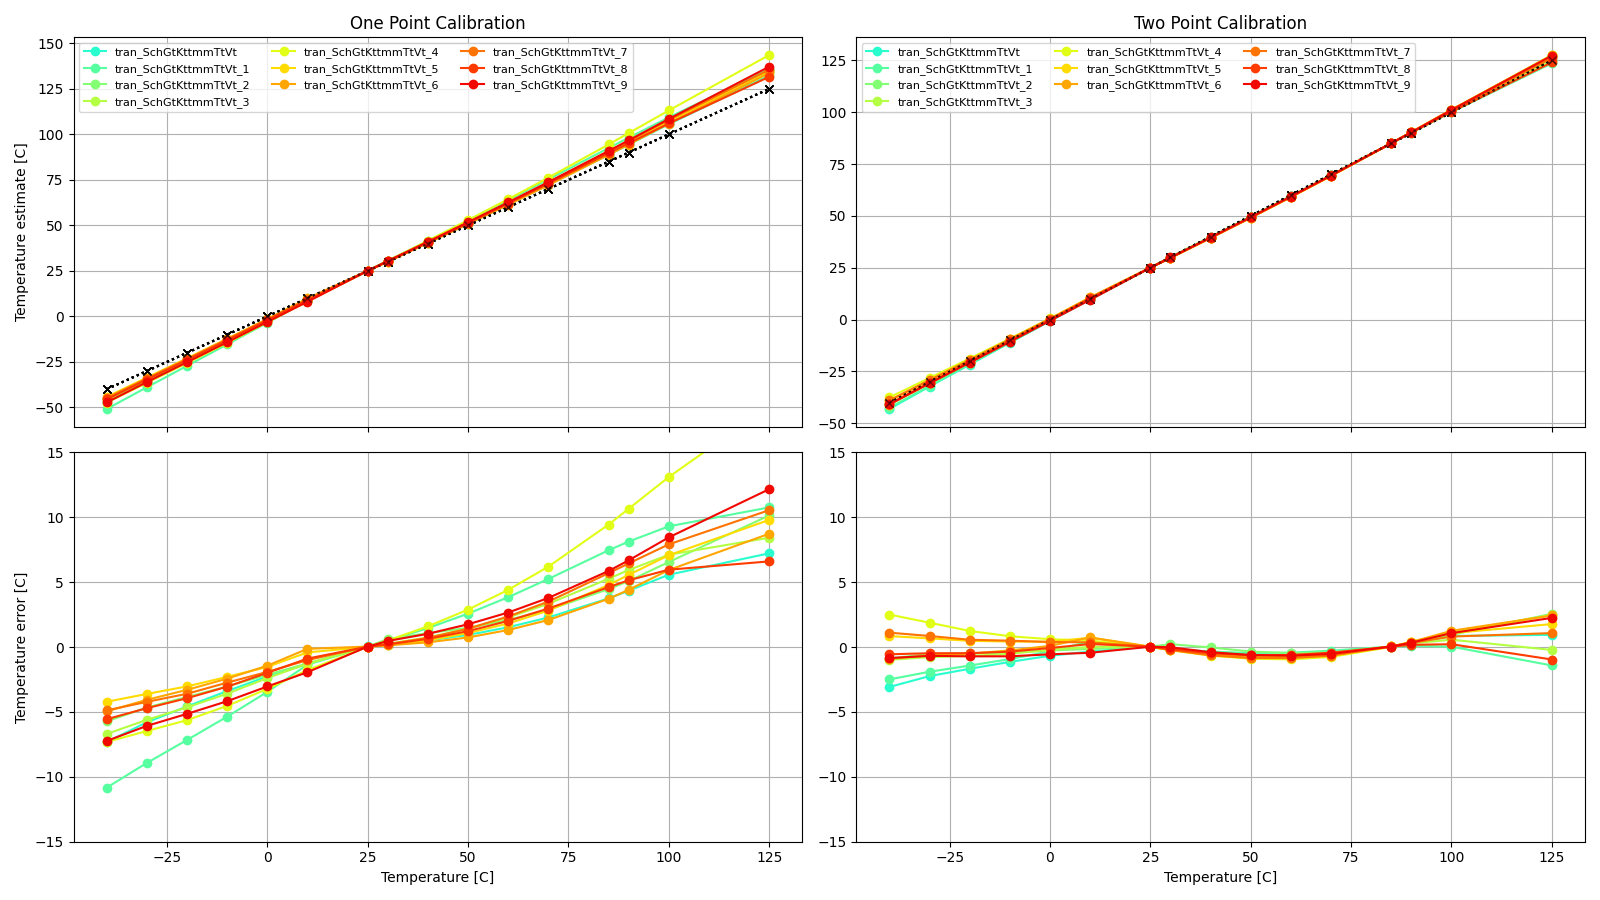
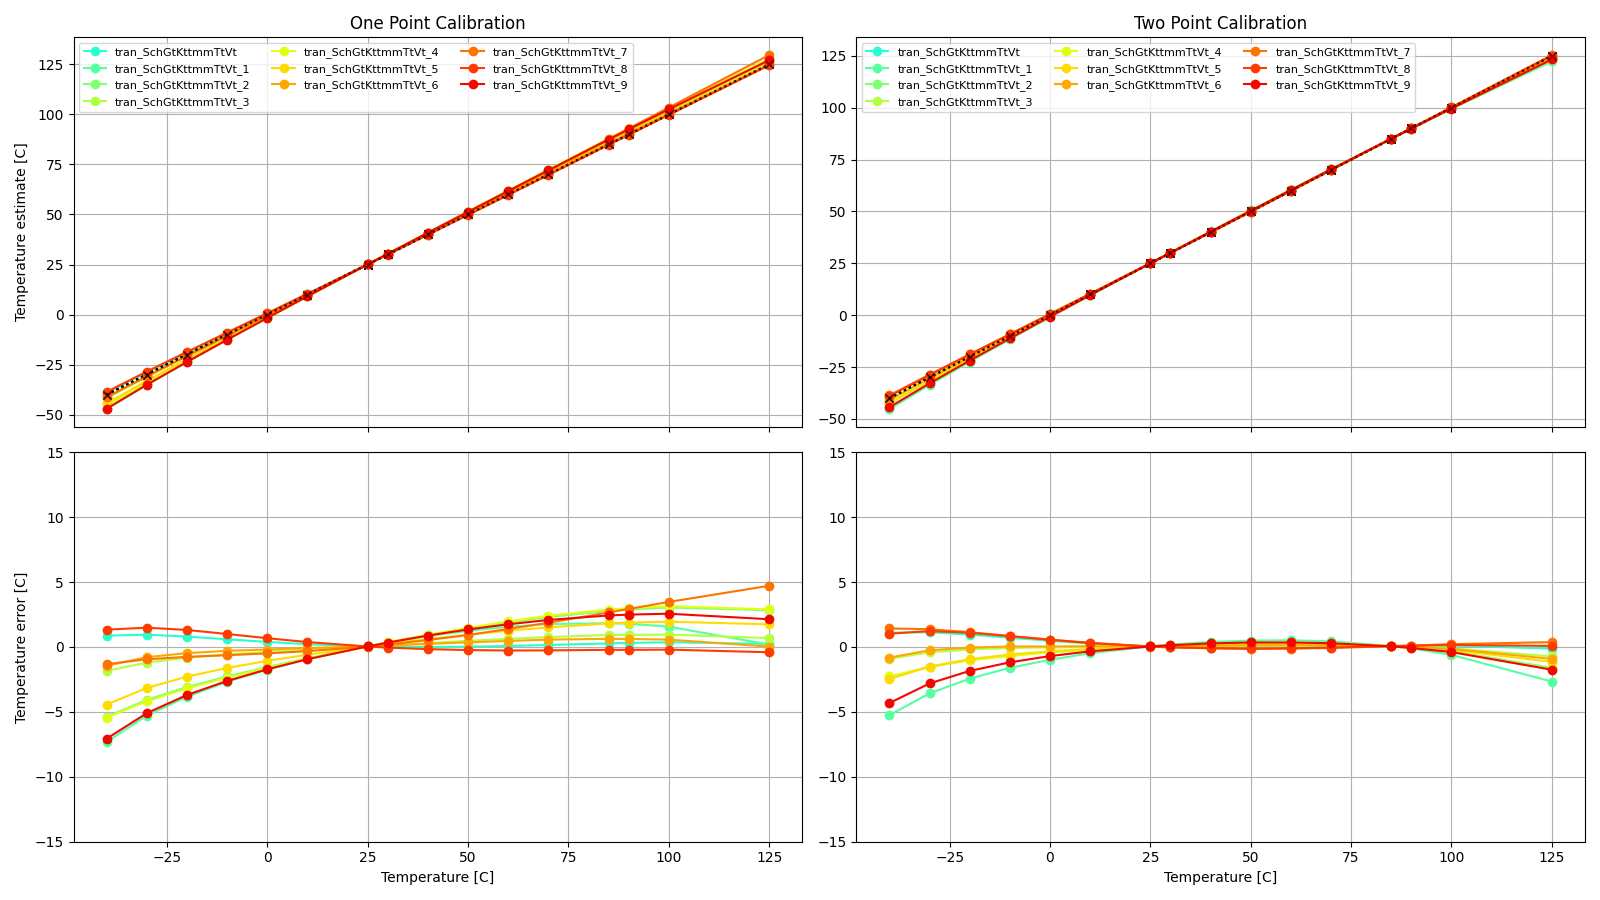
chore: carry the working tree's standing changes
The magic search path gains LELO_ATR_SKY130A, and the simulation
READMEs and waveform images are as their last regeneration left them.
These predate today's subcell work and are committed as found, so the
tree is clean for a history rewrite.

Claude-Session: https://claude.ai/code/session_011UZw6MEnHap4TKj3arkbFP

diff --git a/sim/LELOTEMP_BIAS_IBP/README.md b/sim/LELOTEMP_BIAS_IBP/README.md
@@ -9,37 +9,37 @@ Check stability
 |**Name**|**Parameter**|**Description**| |**Min**|**Typ**|**Max**| Unit|
 |:---|:---|:---|---:|:---:|:---:|:---:| ---:|
 |**Gain Margin**|**gm\_db** || **Spec**  | **-50.00** | **-10.00** | **-10.00** | **dB** |
-| | | |<a href='results/lstb_Sch_typical.html'>Sch_typ</a>| | -15.24 |  | |
-| | | |<a href='results/lstb_Sch_etc.html'>Sch_etc</a>|-31.04 | -16.50 | -12.85 | |
-| | | |<a href='results/lstb_Sch_mc.html'>Sch_3std</a>|-18.71 | -15.65 | -12.60 | |
+| | | |<a href='results/lstb_Sch_typical.html'>Sch_typ</a>| | -19.55 |  | |
+| | | |<a href='results/lstb_Sch_etc.html'>Sch_etc</a>|-26.53 | -18.94 | -16.01 | |
+| | | |<a href='results/lstb_Sch_mc.html'>Sch_3std</a>|-20.64 | -19.51 | -18.37 | |
 |**DC gain**|**lf\_gain** || **Spec**  | **50.00** | **40.00** | **80.00** | **dB** |
-| | | |<a href='results/lstb_Sch_typical.html'>Sch_typ</a>| | 69.07 |  | |
-| | | |<a href='results/lstb_Sch_etc.html'>Sch_etc</a>|65.77 | 67.28 | 69.86 | |
-| | | |<a href='results/lstb_Sch_mc.html'>Sch_3std</a>|66.68 | 68.81 | 70.95 | |
+| | | |<a href='results/lstb_Sch_typical.html'>Sch_typ</a>| | <span style='color:red'>**42.50**</span> |  | |
+| | | |<a href='results/lstb_Sch_etc.html'>Sch_etc</a>|<span style='color:red'>**39.89**</span> | <span style='color:red'>**42.76**</span> | <span style='color:red'>**44.19**</span> | |
+| | | |<a href='results/lstb_Sch_mc.html'>Sch_3std</a>|<span style='color:red'>**40.70**</span> | <span style='color:red'>**42.58**</span> | <span style='color:red'>**44.47**</span> | |
 |**Phase Margin**|**pm\_deg** || **Spec**  | **45.00** | **60.00** | **90.00** |  |
-| | | |<a href='results/lstb_Sch_typical.html'>Sch_typ</a>| | 58.63 |  | |
-| | | |<a href='results/lstb_Sch_etc.html'>Sch_etc</a>|48.41 | 62.56 | 70.99 | |
-| | | |<a href='results/lstb_Sch_mc.html'>Sch_3std</a>|50.86 | 59.70 | 68.53 | |
+| | | |<a href='results/lstb_Sch_typical.html'>Sch_typ</a>| | 70.55 |  | |
+| | | |<a href='results/lstb_Sch_etc.html'>Sch_etc</a>|59.93 | 68.21 | 80.96 | |
+| | | |<a href='results/lstb_Sch_mc.html'>Sch_3std</a>|67.47 | 70.36 | 73.25 | |
 |**Unity Gain Frequency**|**ug** || **Spec**  | **3.00** | **15.00** | **100.00** | **MHz** |
-| | | |<a href='results/lstb_Sch_typical.html'>Sch_typ</a>| | 5.76 |  | |
-| | | |<a href='results/lstb_Sch_etc.html'>Sch_etc</a>|<span style='color:red'>**2.59**</span> | 5.36 | 10.12 | |
-| | | |<a href='results/lstb_Sch_mc.html'>Sch_3std</a>|3.65 | 5.65 | 7.65 | |
+| | | |<a href='results/lstb_Sch_typical.html'>Sch_typ</a>| | 3.76 |  | |
+| | | |<a href='results/lstb_Sch_etc.html'>Sch_etc</a>|<span style='color:red'>**1.35**</span> | 4.06 | 6.78 | |
+| | | |<a href='results/lstb_Sch_mc.html'>Sch_3std</a>|3.14 | 3.80 | 4.47 | |
 |**PMOS gate**|**v(lpo)** || **Spec**  | **0.45** | **0.70** | **1.10** | **V** |
 | | | |<a href='results/lstb_Sch_typical.html'>Sch_typ</a>| | 0.76 |  | |
-| | | |<a href='results/lstb_Sch_etc.html'>Sch_etc</a>|0.52 | 0.77 | 1.05 | |
-| | | |<a href='results/lstb_Sch_mc.html'>Sch_3std</a>|0.73 | 0.76 | 0.78 | |
+| | | |<a href='results/lstb_Sch_etc.html'>Sch_etc</a>|0.52 | 0.78 | 1.05 | |
+| | | |<a href='results/lstb_Sch_mc.html'>Sch_3std</a>|0.74 | 0.76 | 0.78 | |
 |**Delta diode voltage**|**vd** || **Spec**  | **80.00** | **106.00** | **150.00** | **mV** |
-| | | |<a href='results/lstb_Sch_typical.html'>Sch_typ</a>| | 109.25 |  | |
-| | | |<a href='results/lstb_Sch_etc.html'>Sch_etc</a>|81.57 | 115.01 | 145.76 | |
-| | | |<a href='results/lstb_Sch_mc.html'>Sch_3std</a>|104.82 | 108.95 | 113.09 | |
+| | | |<a href='results/lstb_Sch_typical.html'>Sch_typ</a>| | 109.27 |  | |
+| | | |<a href='results/lstb_Sch_etc.html'>Sch_etc</a>|84.62 | 115.02 | 145.84 | |
+| | | |<a href='results/lstb_Sch_mc.html'>Sch_3std</a>|104.95 | 108.99 | 113.03 | |
 |**Output current**|**i(v1)** || **Spec**  | **0.50** | **1.00** | **2.00** | **uA** |
-| | | |<a href='results/lstb_Sch_typical.html'>Sch_typ</a>| | 1.08 |  | |
-| | | |<a href='results/lstb_Sch_etc.html'>Sch_etc</a>|0.87 | 1.26 | 1.74 | |
-| | | |<a href='results/lstb_Sch_mc.html'>Sch_3std</a>|0.75 | 1.12 | 1.50 | |
+| | | |<a href='results/lstb_Sch_typical.html'>Sch_typ</a>| | 1.06 |  | |
+| | | |<a href='results/lstb_Sch_etc.html'>Sch_etc</a>|0.71 | 1.09 | 1.74 | |
+| | | |<a href='results/lstb_Sch_mc.html'>Sch_3std</a>|0.67 | 1.06 | 1.46 | |
 |**VD Error**|**vdiff** || **Spec**  | **-6.00** | **0.00** | **6.00** | **mV** |
-| | | |<a href='results/lstb_Sch_typical.html'>Sch_typ</a>| | -0.08 |  | |
-| | | |<a href='results/lstb_Sch_etc.html'>Sch_etc</a>|<span style='color:red'>**-97.25**</span> | -0.13 | 0.06 | |
-| | | |<a href='results/lstb_Sch_mc.html'>Sch_3std</a>|<span style='color:red'>**-22.99**</span> | 0.99 | <span style='color:red'>**24.96**</span> | |
+| | | |<a href='results/lstb_Sch_typical.html'>Sch_typ</a>| | 0.60 |  | |
+| | | |<a href='results/lstb_Sch_etc.html'>Sch_etc</a>|0.25 | 0.61 | 1.02 | |
+| | | |<a href='results/lstb_Sch_mc.html'>Sch_3std</a>|<span style='color:red'>**-29.05**</span> | -1.49 | <span style='color:red'>**26.07**</span> | |
 
 #### Transient (tran)
 
@@ -51,28 +51,28 @@ Check settling time and current variation
 |:---|:---|:---|---:|:---:|:---:|:---:| ---:|
 ||**t\_settle** || **Spec**  | **0.01** | **0.05** | **2.00** | **us** |
 | | | |<a href='results/tran_Sch_typical.html'>Sch_typ</a>| | 0.37 |  | |
-| | | |<a href='results/tran_Sch_etc.html'>Sch_etc</a>|0.31 | 0.40 | <span style='color:red'>**8.84**</span> | |
-| | | |<a href='results/tran_Sch_mc.html'>Sch_3std</a>|0.35 | 0.37 | 0.40 | |
+| | | |<a href='results/tran_Sch_etc.html'>Sch_etc</a>|0.33 | 0.62 | 1.78 | |
+| | | |<a href='results/tran_Sch_mc.html'>Sch_3std</a>|0.48 | 0.62 | 0.77 | |
 ||**i0** || **Spec**  | **0.500** | **1.000** | **2.000** | **uA** |
 | | | |<a href='results/tran_Sch_typical.html'>Sch_typ</a>| | 1.160 |  | |
-| | | |<a href='results/tran_Sch_etc.html'>Sch_etc</a>|0.692 | 1.169 | 1.667 | |
-| | | |<a href='results/tran_Sch_mc.html'>Sch_3std</a>|0.720 | 1.115 | 1.511 | |
+| | | |<a href='results/tran_Sch_etc.html'>Sch_etc</a>|0.806 | 1.162 | 1.658 | |
+| | | |<a href='results/tran_Sch_mc.html'>Sch_3std</a>|0.759 | 1.153 | 1.546 | |
 ||**i1** || **Spec**  | **0.500** | **1.000** | **2.000** | **uA** |
 | | | |<a href='results/tran_Sch_typical.html'>Sch_typ</a>| | 1.160 |  | |
-| | | |<a href='results/tran_Sch_etc.html'>Sch_etc</a>|0.692 | 1.169 | 1.666 | |
-| | | |<a href='results/tran_Sch_mc.html'>Sch_3std</a>|0.690 | 1.143 | 1.596 | |
+| | | |<a href='results/tran_Sch_etc.html'>Sch_etc</a>|0.805 | 1.162 | 1.658 | |
+| | | |<a href='results/tran_Sch_mc.html'>Sch_3std</a>|0.732 | 1.140 | 1.548 | |
 ||**i2** || **Spec**  | **0.500** | **1.000** | **2.000** | **uA** |
 | | | |<a href='results/tran_Sch_typical.html'>Sch_typ</a>| | 1.159 |  | |
-| | | |<a href='results/tran_Sch_etc.html'>Sch_etc</a>|0.692 | 1.168 | 1.666 | |
-| | | |<a href='results/tran_Sch_mc.html'>Sch_3std</a>|0.720 | 1.122 | 1.525 | |
+| | | |<a href='results/tran_Sch_etc.html'>Sch_etc</a>|0.804 | 1.162 | 1.658 | |
+| | | |<a href='results/tran_Sch_mc.html'>Sch_3std</a>|0.835 | 1.161 | 1.486 | |
 ||**i3** || **Spec**  | **0.500** | **1.000** | **2.000** | **uA** |
 | | | |<a href='results/tran_Sch_typical.html'>Sch_typ</a>| | 1.159 |  | |
-| | | |<a href='results/tran_Sch_etc.html'>Sch_etc</a>|0.692 | 1.167 | 1.665 | |
-| | | |<a href='results/tran_Sch_mc.html'>Sch_3std</a>|0.725 | 1.114 | 1.502 | |
+| | | |<a href='results/tran_Sch_etc.html'>Sch_etc</a>|0.804 | 1.161 | 1.657 | |
+| | | |<a href='results/tran_Sch_mc.html'>Sch_3std</a>|0.815 | 1.168 | 1.520 | |
 ||**idd** || **Spec**  | **5.000** | **30.000** | **60.000** | **uA** |
 | | | |<a href='results/tran_Sch_typical.html'>Sch_typ</a>| | 42.766 |  | |
-| | | |<a href='results/tran_Sch_etc.html'>Sch_etc</a>|33.372 | 40.889 | 53.123 | |
-| | | |<a href='results/tran_Sch_mc.html'>Sch_3std</a>|34.902 | 41.982 | 49.062 | |
+| | | |<a href='results/tran_Sch_etc.html'>Sch_etc</a>|15.579 | 30.087 | 48.886 | |
+| | | |<a href='results/tran_Sch_mc.html'>Sch_3std</a>|25.153 | 29.247 | 33.341 | |
 
 #### DC (dc)
 
@@ -83,23 +83,23 @@ Check temperature performance
 |**Name**|**Parameter**|**Description**| |**Min**|**Typ**|**Max**| Unit|
 |:---|:---|:---|---:|:---:|:---:|:---:| ---:|
 ||**ibp\_err\_max** || **Spec**  | **-30.00** | **0.00** | **20.00** | **nA** |
-| | | |<a href='results/dc_Sch_typical.html'>Sch_typ</a>| | 8.38 |  | |
-| | | |<a href='results/dc_Sch_etc.html'>Sch_etc</a>|7.45 | 8.39 | <span style='color:red'>**496.21**</span> | |
-| | | |<a href='results/dc_Sch_mc.html'>Sch_3std</a>|<span style='color:red'>**-247.30**</span> | <span style='color:red'>**24.70**</span> | <span style='color:red'>**296.71**</span> | |
+| | | |<a href='results/dc_Sch_typical.html'>Sch_typ</a>| | 8.15 |  | |
+| | | |<a href='results/dc_Sch_etc.html'>Sch_etc</a>|7.26 | 8.17 | 9.31 | |
+| | | |<a href='results/dc_Sch_mc.html'>Sch_3std</a>|4.96 | 8.50 | 12.04 | |
 ||**ibp\_err\_min** || **Spec**  | **-30.00** | **0.00** | **20.00** | **nA** |
-| | | |<a href='results/dc_Sch_typical.html'>Sch_typ</a>| | -18.43 |  | |
-| | | |<a href='results/dc_Sch_etc.html'>Sch_etc</a>|<span style='color:red'>**-62.25**</span> | -18.47 | -16.39 | |
-| | | |<a href='results/dc_Sch_mc.html'>Sch_3std</a>|<span style='color:red'>**-53.14**</span> | -19.39 | 14.35 | |
+| | | |<a href='results/dc_Sch_typical.html'>Sch_typ</a>| | -17.94 |  | |
+| | | |<a href='results/dc_Sch_etc.html'>Sch_etc</a>|-20.47 | -17.84 | -15.92 | |
+| | | |<a href='results/dc_Sch_mc.html'>Sch_3std</a>|<span style='color:red'>**-37.62**</span> | -19.34 | -1.06 | |
 ||**imax** || **Spec**  | **0.50** | **0.00** | **2.00** | **uA** |
-| | | |<a href='results/dc_Sch_typical.html'>Sch_typ</a>| | 1.46 |  | |
-| | | |<a href='results/dc_Sch_etc.html'>Sch_etc</a>|1.29 | 1.46 | 1.67 | |
-| | | |<a href='results/dc_Sch_mc.html'>Sch_3std</a>|1.00 | 1.41 | 1.82 | |
+| | | |<a href='results/dc_Sch_typical.html'>Sch_typ</a>| | 1.45 |  | |
+| | | |<a href='results/dc_Sch_etc.html'>Sch_etc</a>|1.28 | 1.45 | 1.66 | |
+| | | |<a href='results/dc_Sch_mc.html'>Sch_3std</a>|1.05 | 1.45 | 1.85 | |
 ||**imin** || **Spec**  | **0.50** | **0.00** | **2.00** | **uA** |
-| | | |<a href='results/dc_Sch_typical.html'>Sch_typ</a>| | 0.92 |  | |
-| | | |<a href='results/dc_Sch_etc.html'>Sch_etc</a>|0.81 | 0.91 | 1.05 | |
-| | | |<a href='results/dc_Sch_mc.html'>Sch_3std</a>|<span style='color:orange'>**0.49**</span> | 0.87 | 1.25 | |
+| | | |<a href='results/dc_Sch_typical.html'>Sch_typ</a>| | 0.91 |  | |
+| | | |<a href='results/dc_Sch_etc.html'>Sch_etc</a>|0.81 | 0.91 | 1.04 | |
+| | | |<a href='results/dc_Sch_mc.html'>Sch_3std</a>|0.54 | 0.91 | 1.27 | |
 ||**a\_per\_c** || **Spec**  | **1.00** | **3.00** | **5.00** | **nA** |
-| | | |<a href='results/dc_Sch_typical.html'>Sch_typ</a>| | 3.27 |  | |
-| | | |<a href='results/dc_Sch_etc.html'>Sch_etc</a>|2.90 | 3.27 | 3.75 | |
-| | | |<a href='results/dc_Sch_mc.html'>Sch_3std</a>|2.74 | 3.25 | 3.76 | |
+| | | |<a href='results/dc_Sch_typical.html'>Sch_typ</a>| | 3.26 |  | |
+| | | |<a href='results/dc_Sch_etc.html'>Sch_etc</a>|2.89 | 3.26 | 3.73 | |
+| | | |<a href='results/dc_Sch_mc.html'>Sch_3std</a>|2.87 | 3.29 | 3.70 | |
 

diff --git a/sim/LELO_TEMP/README.md b/sim/LELO_TEMP/README.md
@@ -9,47 +9,47 @@ Check temperature accuracy
 |**Name**|**Parameter**|**Description**| |**Min**|**Typ**|**Max**| Unit|
 |:---|:---|:---|---:|:---:|:---:|:---:| ---:|
 ||**idd\_25** || **Spec**  | **5.000** | **30.000** | **100.000** | **uA** |
-| | | |<a href='results/tran_Sch_typical.html'>Sch_typ</a>| | 79.330 |  | |
+| | | |<a href='results/tran_Sch_typical.html'>Sch_typ</a>| | 61.531 |  | |
 | | | |<a href='results/tran_Sch_etc.html'>Sch_etc</a>|57.444 | 78.728 | <span style='color:orange'>**103.453**</span> | |
-| | | |<a href='results/tran_Sch_mc.html'>Sch_3std</a>|70.694 | 81.108 | 91.521 | |
+| | | |<a href='results/tran_Sch_mc.html'>Sch_3std</a>|53.908 | 61.784 | 69.660 | |
 ||**iddq\_25** || **Spec**  | **0.000** | **10.000** | **50.000** | **nA** |
-| | | |<a href='results/tran_Sch_typical.html'>Sch_typ</a>| | 5.229 |  | |
+| | | |<a href='results/tran_Sch_typical.html'>Sch_typ</a>| | 6.436 |  | |
 | | | |<a href='results/tran_Sch_etc.html'>Sch_etc</a>|4.285 | 5.328 | 44.888 | |
-| | | |<a href='results/tran_Sch_mc.html'>Sch_3std</a>|5.067 | 5.280 | 5.493 | |
+| | | |<a href='results/tran_Sch_mc.html'>Sch_3std</a>|6.317 | 6.499 | 6.681 | |
 ||**ind\_1p\_max** |Industrial 1 point calibration| **Spec**  | **-15.000** | **0.000** | **15.000** | **C** |
-| | | |<a href='results/tran_Sch_typical.html'>Sch_typ</a>| | 11.916 |  | |
+| | | |<a href='results/tran_Sch_typical.html'>Sch_typ</a>| | 1.396 |  | |
 | | | |<a href='results/tran_Sch_etc.html'>Sch_etc</a>|2.570 | 8.559 | <span style='color:red'>**21.027**</span> | |
-| | | |<a href='results/tran_Sch_mc.html'>Sch_3std</a>|0.221 | 10.293 | <span style='color:red'>**20.364**</span> | |
+| | | |<a href='results/tran_Sch_mc.html'>Sch_3std</a>|-1.658 | 2.124 | 5.906 | |
 ||**ind\_1p\_min** |Industrial 1 point calibration| **Spec**  | **-15.000** | **0.000** | **15.000** | **C** |
-| | | |<a href='results/tran_Sch_typical.html'>Sch_typ</a>| | -5.970 |  | |
+| | | |<a href='results/tran_Sch_typical.html'>Sch_typ</a>| | -2.226 |  | |
 | | | |<a href='results/tran_Sch_etc.html'>Sch_etc</a>|<span style='color:red'>**-68.775**</span> | -8.264 | 0.612 | |
-| | | |<a href='results/tran_Sch_mc.html'>Sch_3std</a>|-12.166 | -6.474 | -0.782 | |
+| | | |<a href='results/tran_Sch_mc.html'>Sch_3std</a>|-11.757 | -3.465 | 4.827 | |
 ||**ind\_2p\_max** |Industrial 2 point calibration| **Spec**  | **-10.000** | **0.000** | **10.000** | **C** |
-| | | |<a href='results/tran_Sch_typical.html'>Sch_typ</a>| | 1.882 |  | |
+| | | |<a href='results/tran_Sch_typical.html'>Sch_typ</a>| | 0.102 |  | |
 | | | |<a href='results/tran_Sch_etc.html'>Sch_etc</a>|-0.570 | 3.580 | <span style='color:red'>**13.200**</span> | |
-| | | |<a href='results/tran_Sch_mc.html'>Sch_3std</a>|-1.293 | 1.480 | 4.254 | |
+| | | |<a href='results/tran_Sch_mc.html'>Sch_3std</a>|-0.903 | 0.573 | 2.049 | |
 ||**ind\_2p\_min** |Industrial 2 point calibration| **Spec**  | **-10.000** | **0.000** | **10.000** | **C** |
-| | | |<a href='results/tran_Sch_typical.html'>Sch_typ</a>| | -0.872 |  | |
+| | | |<a href='results/tran_Sch_typical.html'>Sch_typ</a>| | -0.894 |  | |
 | | | |<a href='results/tran_Sch_etc.html'>Sch_etc</a>|<span style='color:red'>**-57.140**</span> | -3.769 | 1.481 | |
-| | | |<a href='results/tran_Sch_mc.html'>Sch_3std</a>|-3.701 | -1.281 | 1.139 | |
+| | | |<a href='results/tran_Sch_mc.html'>Sch_3std</a>|-7.277 | -1.887 | 3.503 | |
 ||**com\_1p\_max** |Commercial 1 point calibration| **Spec**  | **-10.000** | **0.000** | **10.000** | **C** |
-| | | |<a href='results/tran_Sch_typical.html'>Sch_typ</a>| | 3.684 |  | |
+| | | |<a href='results/tran_Sch_typical.html'>Sch_typ</a>| | 1.014 |  | |
 | | | |<a href='results/tran_Sch_etc.html'>Sch_etc</a>|-0.294 | 4.651 | <span style='color:red'>**11.925**</span> | |
-| | | |<a href='results/tran_Sch_mc.html'>Sch_3std</a>|-0.376 | 3.506 | 7.387 | |
+| | | |<a href='results/tran_Sch_mc.html'>Sch_3std</a>|-0.867 | 1.431 | 3.730 | |
 ||**com\_1p\_min** |Commercial 1 point calibration| **Spec**  | **-10.000** | **0.000** | **10.000** | **C** |
-| | | |<a href='results/tran_Sch_typical.html'>Sch_typ</a>| | -2.400 |  | |
+| | | |<a href='results/tran_Sch_typical.html'>Sch_typ</a>| | -0.507 |  | |
 | | | |<a href='results/tran_Sch_etc.html'>Sch_etc</a>|<span style='color:red'>**-10.763**</span> | -2.672 | 0.612 | |
-| | | |<a href='results/tran_Sch_mc.html'>Sch_3std</a>|-4.426 | -2.340 | -0.254 | |
+| | | |<a href='results/tran_Sch_mc.html'>Sch_3std</a>|-3.022 | -0.906 | 1.209 | |
 ||**com\_2p\_max** |Commercial 2 point calibration| **Spec**  | **-5.000** | **0.000** | **5.000** | **C** |
-| | | |<a href='results/tran_Sch_typical.html'>Sch_typ</a>| | 0.056 |  | |
+| | | |<a href='results/tran_Sch_typical.html'>Sch_typ</a>| | 0.102 |  | |
 | | | |<a href='results/tran_Sch_etc.html'>Sch_etc</a>|-0.570 | 0.901 | <span style='color:orange'>**5.237**</span> | |
-| | | |<a href='results/tran_Sch_mc.html'>Sch_3std</a>|-0.487 | 0.344 | 1.175 | |
+| | | |<a href='results/tran_Sch_mc.html'>Sch_3std</a>|-0.141 | 0.354 | 0.850 | |
 ||**com\_2p\_min** |Commercial 2 point calibration| **Spec**  | **-5.000** | **0.000** | **5.000** | **C** |
-| | | |<a href='results/tran_Sch_typical.html'>Sch_typ</a>| | -0.872 |  | |
+| | | |<a href='results/tran_Sch_typical.html'>Sch_typ</a>| | -0.002 |  | |
 | | | |<a href='results/tran_Sch_etc.html'>Sch_etc</a>|<span style='color:red'>**-7.653**</span> | -1.036 | 1.481 | |
-| | | |<a href='results/tran_Sch_mc.html'>Sch_3std</a>|-1.195 | -0.707 | -0.219 | |
+| | | |<a href='results/tran_Sch_mc.html'>Sch_3std</a>|-1.296 | -0.317 | 0.661 | |
 ||**FOM** |Figure Of Merit| **Spec**  | **10.000** | **40.000** | **400.000** | **nAK** |
-| | | |<a href='results/tran_Sch_typical.html'>Sch_typ</a>| | 27.316 |  | |
+| | | |<a href='results/tran_Sch_typical.html'>Sch_typ</a>| | <span style='color:red'>**2.617**</span> |  | |
 | | | |<a href='results/tran_Sch_etc.html'>Sch_etc</a>|27.675 | 83.512 | 247.144 | |
-| | | |<a href='results/tran_Sch_mc.html'>Sch_3std</a>|<span style='color:red'>**-1.208**</span> | 31.393 | 63.994 | |
+| | | |<a href='results/tran_Sch_mc.html'>Sch_3std</a>|<span style='color:red'>**-14.738**</span> | 17.140 | 49.019 | |
 
